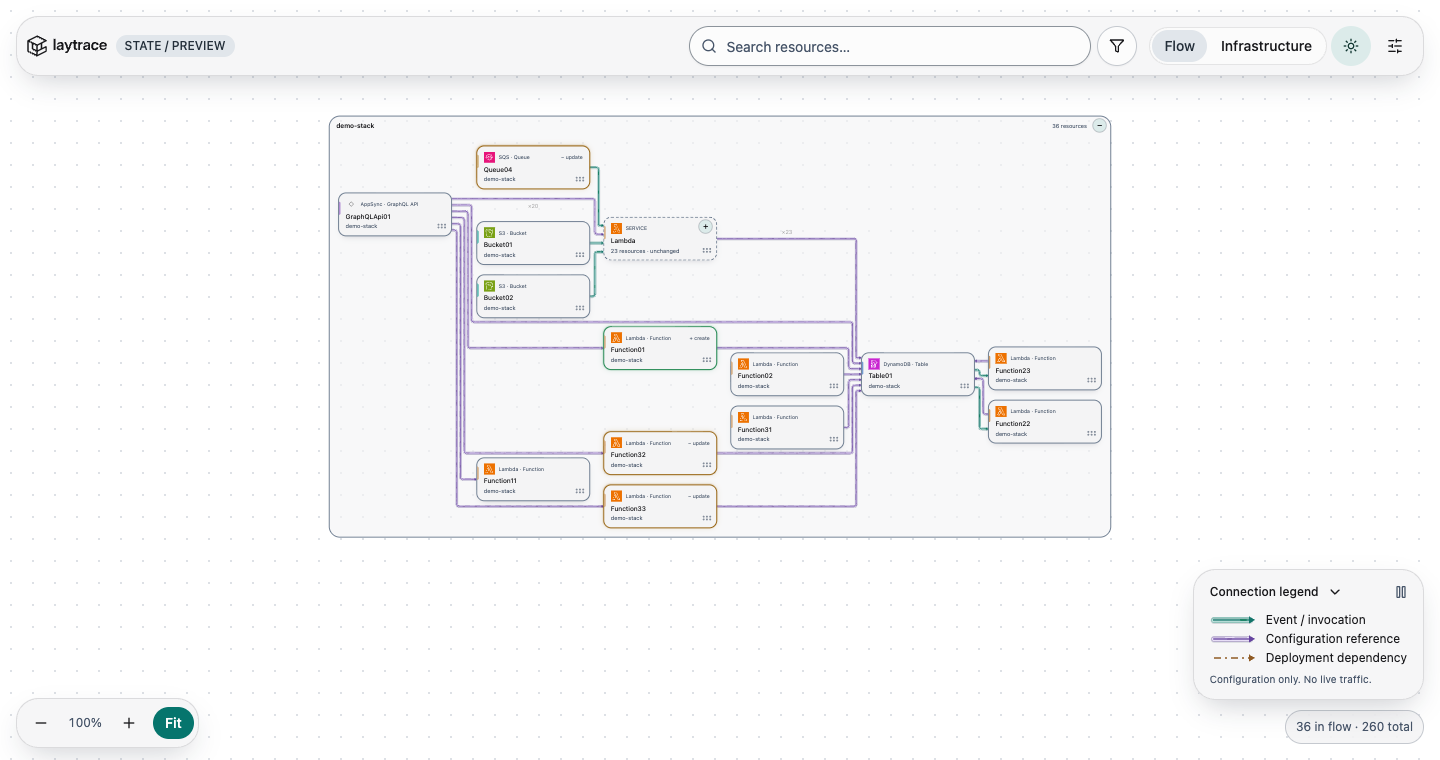
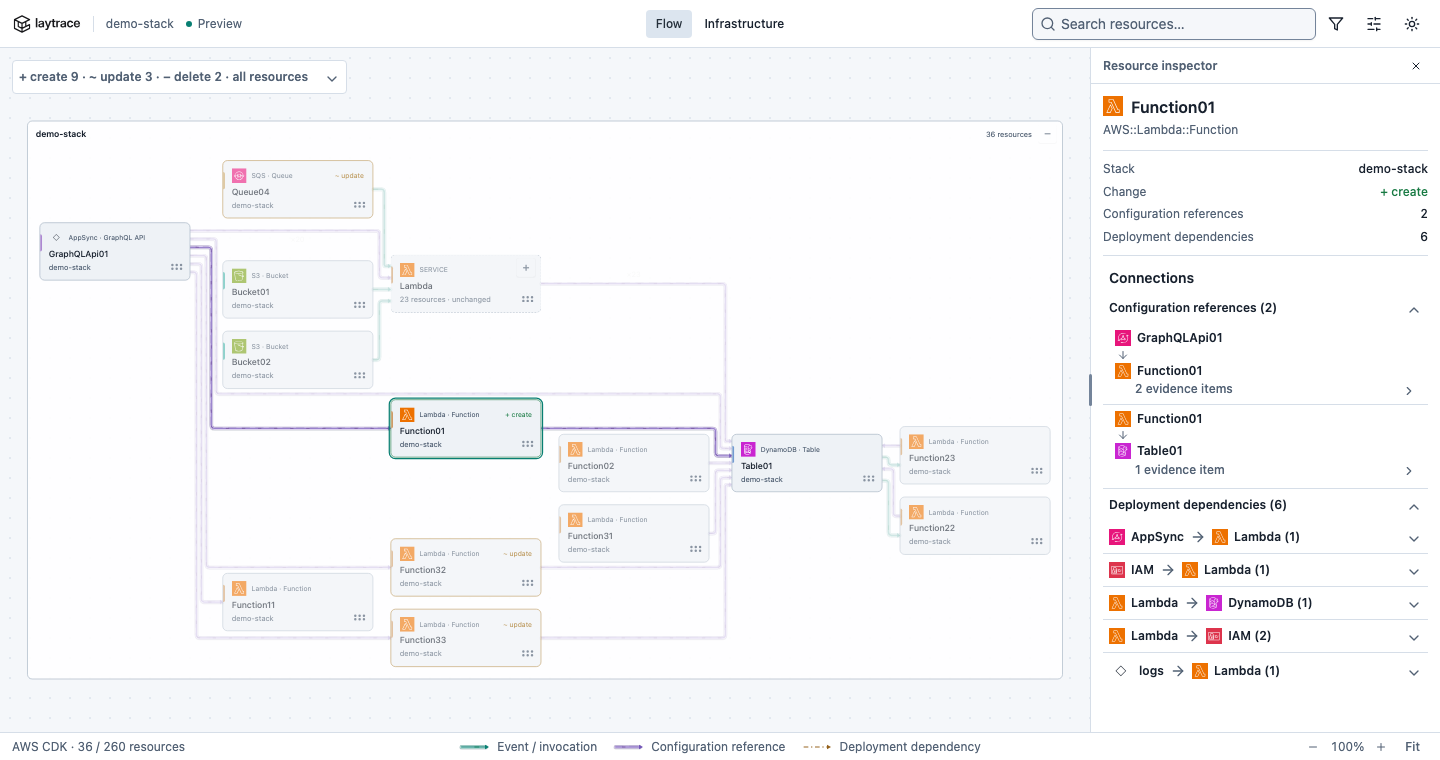
feat: readme update

diff --git a/site/index.html b/site/index.html
@@ -43,11 +43,11 @@
       <figcaption>
         <div>
           <h2>Explore an AWS CDK report</h2>
-          <p>Follow connections between AWS services or select a resource to see its details.</p>
+          <p>Expand the change summary to see affected resources by service, or select a resource or connection to inspect it beside the graph.</p>
         </div>
         <a class="button primary" href="demo.html">Open interactive demo</a>
       </figcaption>
-      <img src="demo-flow.png" data-light-src="demo-flow-light.png" width="1440" height="760" alt="Laytrace demo diagram showing connected AWS services, including AppSync, Lambda, and DynamoDB">
+      <img src="demo-flow.png" data-light-src="demo-flow-light.png" width="1440" height="760" alt="AWS CDK demo in Flow view with the change summary and Lambda resource inspector">
     </figure>
 
     <div class="project-guide">

diff --git a/README.md b/README.md
@@ -8,9 +8,14 @@ Each report is a single file with a searchable diagram, change filters, and a re
 
 ## See it in action
 
-The screenshot shows the public AWS CDK demo, with AppSync, Lambda, S3, SQS, and DynamoDB connections. In **Flow**, select a connection to inspect the event or configuration behind it. Switch to **Infrastructure** for the full resource inventory, deployment dependencies, and preview changes.
+The public AWS CDK demo shows AppSync, Lambda, S3, SQS, and DynamoDB connections. Expand the change summary to see affected resources grouped by service. Select a resource or connection to open its details beside the graph. Switch to **Infrastructure** for the full resource inventory and deployment dependencies.
 
-[![Flow view of the AWS CDK demo with connected AWS resources](docs/images/demo-flow.png)](https://maciejpvp.github.io/Laytrace/demo.html)
+<a href="https://maciejpvp.github.io/Laytrace/demo.html">
+  <picture>
+    <source media="(prefers-color-scheme: light)" srcset="docs/images/demo-flow-light.png">
+    <img src="docs/images/demo-flow.png" alt="AWS CDK demo in Flow view with the change summary and Lambda resource inspector">
+  </picture>
+</a>
 
 ## Install
 
